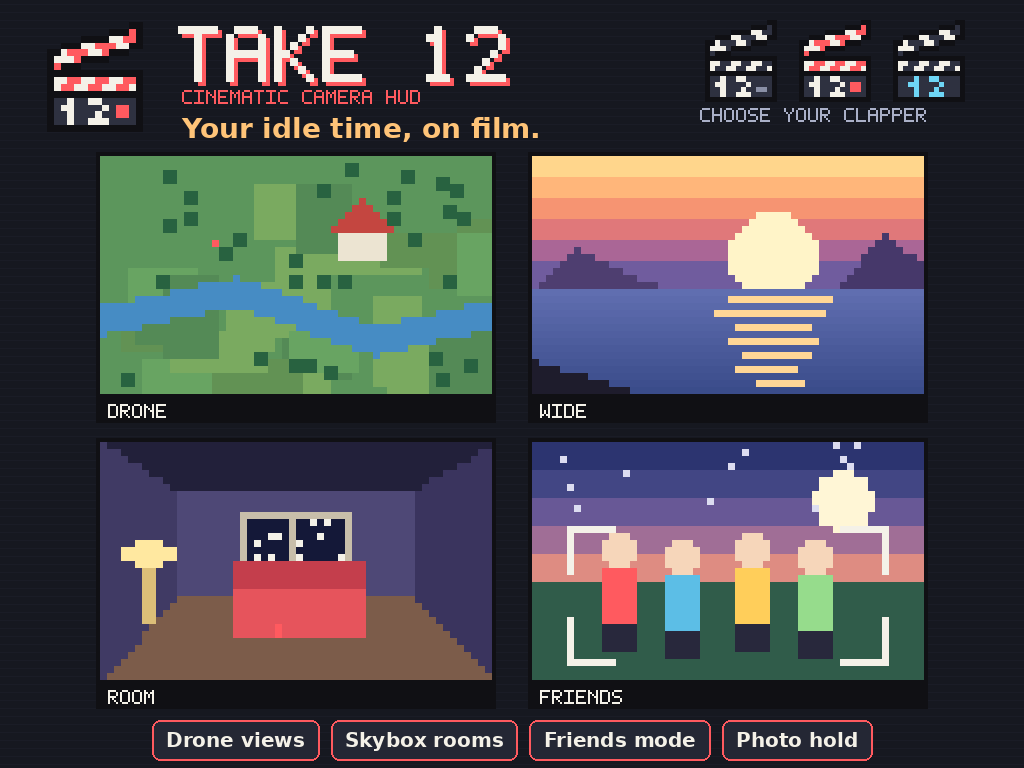
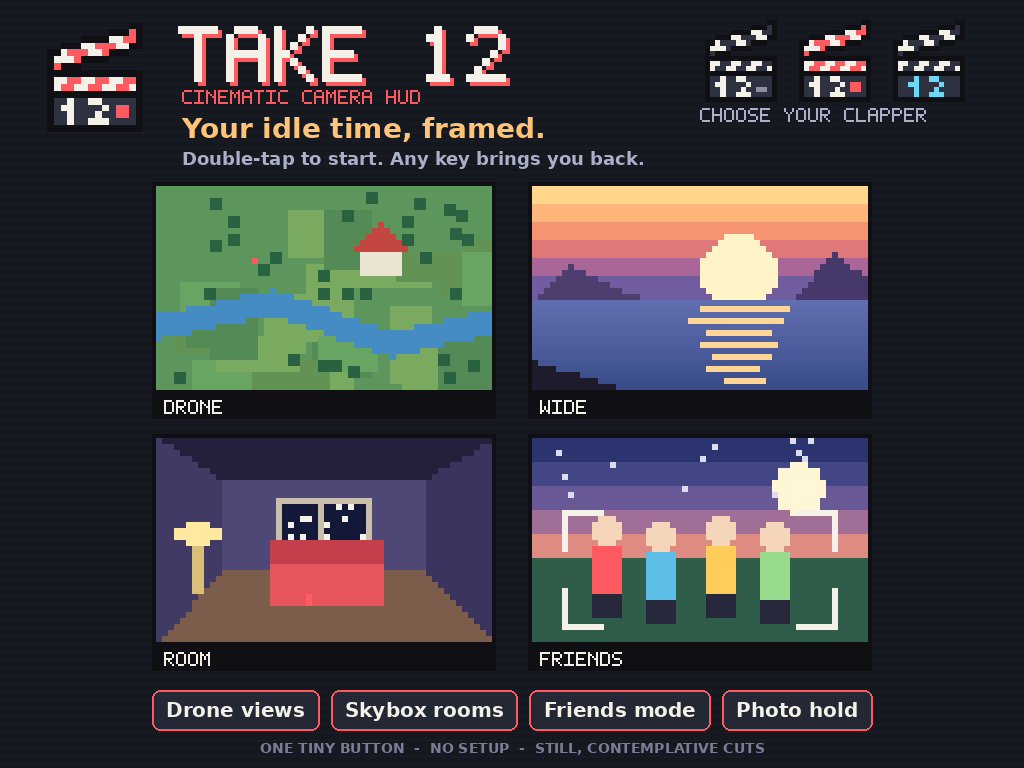
Ad boards: 'Your idle time, framed.' and 'Double-tap to start. Any key brings you back.'
- New main line and how-to line on all six full boards (no 'film', no 'walk
  away'); original footer kept; 4:3 board gets the how-to line and footer,
  its view grid slightly smaller.
- Lite boards are only rebuilt with --lite (Lite is paused).
- Listing: the line added to the promo lines; board notes updated.

Claude-Session: https://claude.ai/code/session_017fxCDsK7kSKGLKYB8MXKf1

diff --git a/tools/art/make_adboard.py b/tools/art/make_adboard.py
@@ -23,7 +23,8 @@ import make_icon as icon
 
 NAME = "TAKE 12"
 DESCRIPTOR = "CINEMATIC CAMERA HUD"
-TAGLINE = "Your idle time, on film."
+TAGLINE = "Your idle time, framed."
+HOWTO = "Double-tap to start. Any key brings you back."
 BG, PANEL, INK, CHALK, CORAL = (22, 24, 32), (36, 39, 52), (16, 16, 20), (244, 241, 232), (255, 90, 95)
 BOLD = "/usr/share/fonts/truetype/dejavu/DejaVuSans-Bold.ttf"
 LITE = False                      # main() runs the boards twice; True draws the Take 12 Lite versions
@@ -220,7 +221,7 @@ def square():
     ptext(im, (244, 44), NAME, 9, CHALK, shadow=CORAL)
     ptext(im, (248, 118), DESCRIPTOR, 3, CORAL)
     d.text((248, 160), TAGLINE, font=font(40), fill=(255, 196, 120))
-    d.text((248, 214), "Double-tap. Walk away. Watch the world.", font=font(24), fill=(170, 176, 200))
+    d.text((248, 214), HOWTO, font=font(24), fill=(170, 176, 200))
     if LITE:
         ribbon(im, (664, 30, 984, 122)); ptext(im, (664, 138), "SCENERY CAMERA + PHOTO HOLD", 2, (170, 176, 200))
     else:
@@ -299,7 +300,7 @@ def portrait():
     ptext(im, (216, 38), NAME, 9, CHALK, shadow=CORAL)
     ptext(im, (220, 112), DESCRIPTOR, 3, CORAL)
     d.text((220, 150), TAGLINE, font=font(34), fill=(255, 196, 120))
-    d.text((220, 200), "Double-tap. Walk away. Watch the world.", font=font(20), fill=(170, 176, 200))
+    d.text((220, 200), HOWTO, font=font(20), fill=(170, 176, 200))
     gw, gh, sc = 96, 56, 7; hx, hy = 48, 250                       # the hero view, 672 x 392
     paste_framed(im, scene_img("WIDE", scene_wide, gw, gh, sc, 41), (hx, hy), border=5, label="WIDE")
     small = [("DRONE", scene_drone), ("ROOM", scene_room), ("FRIENDS", scene_friends)]; gw2, gh2, sc2 = 52, 32, 4; y2 = 722
@@ -321,20 +322,25 @@ def landscape43():
     ptext(im, (178, 26), NAME, 8, CHALK, shadow=CORAL)
     ptext(im, (182, 90), DESCRIPTOR, 2, CORAL)
     d.text((182, 112), TAGLINE, font=font(28), fill=(255, 196, 120))
+    d.text((182, 148), HOWTO, font=font(18), fill=(170, 176, 200))
     if LITE: ribbon(im, (760, 26, 984, 96))
     else:
         looks(im, 700, 20, 82, 12)
         ptext(im, (700, 108), "CHOOSE YOUR CLAPPER", 2, (170, 176, 200))
-    gw, gh, sc = 56, 34, 7; px, py = 100, 156
+    gw, gh, sc = 56, 34, 6; px, py = 156, 186
     for i, (lab, fn) in enumerate(SCENES):
         x = px + (i % 2) * (gw * sc + 40); y = py + (i // 2) * (gh * sc + 48)
         paste_framed(im, scene_img(lab, fn, gw, gh, sc, 61 + i), (x, y), border=4, label=lab + ("  -  FULL" if LITE and lab in FULL_ONLY else ""), lab_scale=2)
-    chips(im, 720, _chip_list(), 20, 30, W - 30, gap=12)
+    chips(im, 690, _chip_list(), 20, 30, W - 30, gap=12)
+    d.text((W // 2, 748), ("THE EASY WAY IN  -  ONE TINY BUTTON" if LITE else "ONE TINY BUTTON  -  NO SETUP  -  STILL, CONTEMPLATIVE CUTS"), font=font(14), fill=(120, 126, 150), anchor="mm")
     return im
 
 if __name__ == "__main__":
     base = os.path.join(os.path.dirname(os.path.abspath(__file__)), "..", "..")
-    for lite, out, suf in ((False, os.path.join(base, "hud", "marketing"), ""), (True, os.path.join(base, "hud-lite", "marketing"), "_lite")):
+    builds = [(False, os.path.join(base, "hud", "marketing"), "")]
+    if "--lite" in sys.argv:                     # Lite is paused (frozen at 4.4.5): its boards are only rebuilt on request
+        builds.append((True, os.path.join(base, "hud-lite", "marketing"), "_lite"))
+    for lite, out, suf in builds:
         LITE = lite; os.makedirs(out, exist_ok=True)
         square().save(os.path.join(out, f"adboard_square_1024{suf}.png")); wide().save(os.path.join(out, f"adboard_wide_1024x512{suf}.png"))
         portrait().save(os.path.join(out, f"adboard_portrait_3x4_768x1024{suf}.png")); landscape43().save(os.path.join(out, f"adboard_landscape_4x3_1024x768{suf}.png"))

diff --git a/hud/marketing/marketplace_listing.md b/hud/marketing/marketplace_listing.md
@@ -90,6 +90,7 @@ take 12, take12, camera, camera hud, cinematic camera, auto camera, portrait, ca
 
 ## Short promo lines (group notices, social posts)
 ```
+Your idle time, framed.
 Your camera, off your avatar's back.
 See your region from the sky, the horizon and the corner of the room. Automatically.
 One button: drone views, skybox rooms, friends in one frame.
@@ -117,4 +118,4 @@ The boards use drawn pixel-art "views", **not real screenshots**. Marketplace bu
 
 Tips for the snapshots: use Photo hold for a steady shot, hide your UI (Ctrl+Alt+F1 in Firestorm), and use a high-quality setting. Keep the same look: square, with a little room around the subject.
 
-To rename the boards or change a line, edit the `NAME`, `DESCRIPTOR` and `TAGLINE` constants (and the chip texts) in `tools/art/make_adboard.py` and run `python3 tools/art/make_adboard.py`. (The board taglines still use the old wording; they were left as they are on purpose.)
+The boards say "Your idle time, framed." and "Double-tap to start. Any key brings you back." To change a line, edit the `NAME`, `DESCRIPTOR`, `TAGLINE` and `HOWTO` constants (and the chip texts) in `tools/art/make_adboard.py` and run `python3 tools/art/make_adboard.py`. Frame is not on the boards on purpose: they sell the automatic camera. (Lite's boards are paused with Lite; add `--lite` to rebuild them.)

diff --git a/CHANGELOG.md b/CHANGELOG.md
@@ -1,5 +1,10 @@
 # Changelog
 
+## Ad boards (marketing only, no script change)
+- **New wording on all six boards:** "Your idle time, framed." (the calm tone of the old line, without "film", which suggested recording) and "Double-tap to start. Any key brings you back." (in place of "walk away"). The footer line is unchanged.
+- The 4:3 board now has the second line and the footer as well, with its views a little smaller to make room.
+- Frame is deliberately not on the boards: they sell the automatic camera. Lite's boards stay frozen with Lite (`--lite` rebuilds them).
+
 ## 4.6.0
 **Frame replaces Photographer, much slimmer.** Take 12 stays the calm, automatic camera; Frame is a small extra for when you want a picture of yourself.
 - **Frame** (main menu, or `/77 frame`) holds a well-composed view of you, or of you and whoever stands right next to you (chosen automatically). Three framings: **Full length, Half length, Close**. Double-tap for the next one.
